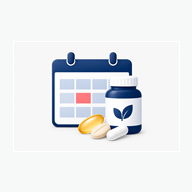
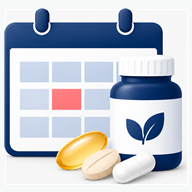
아이콘 크기 확대 (여백 축소)

diff --git a/public/sw.js b/public/sw.js
@@ -1,4 +1,4 @@
-const CACHE_NAME = 'hsmoa-health-food-v8';
+const CACHE_NAME = 'hsmoa-health-food-v9';
 const ASSETS = ['/', '/index.html', '/style.css', '/app.js', '/manifest.json', '/favicon.png', '/favicon.ico', '/icon-192.png', '/icon-512.png'];
 
 self.addEventListener('install', (event) => {